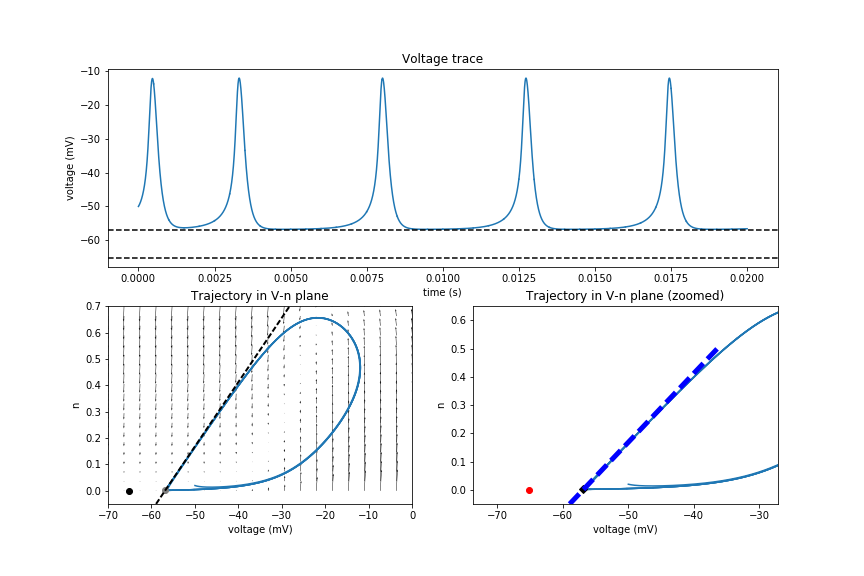
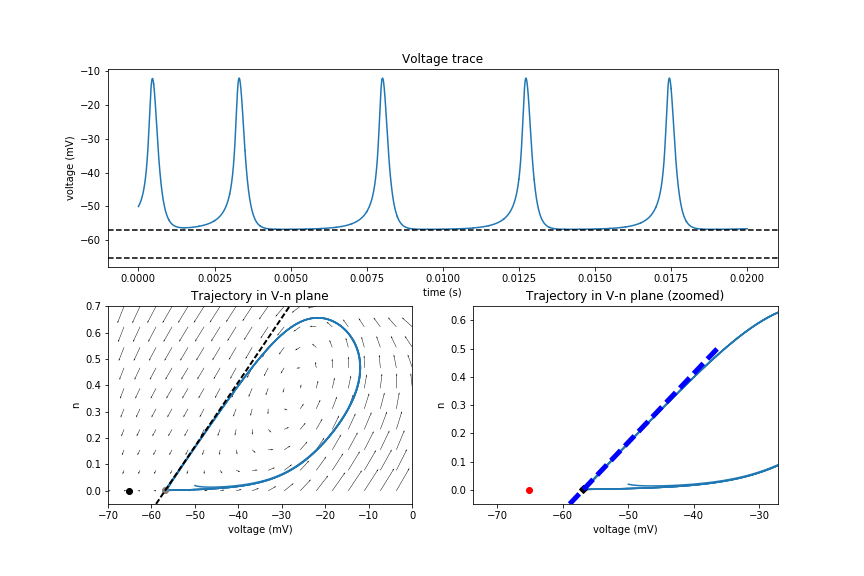
plotting phase-plane done

Changed region(s): [[0.125, 0.5312, 0.3438, 0.75], [0.3438, 0.6562, 0.4688, 0.8438], [0.4375, 0.5312, 0.4688, 0.6562]]

diff --git a/Neuron.py b/Neuron.py
@@ -258,18 +258,19 @@ def plot_histograms(results):
     
 def plot_field(tau_n, Iapp, plot = False):
     '''Plots phase plane for given parameters'''
-    v_grid ,n_grid = np.meshgrid(np.linspace(-70,0,20), np.linspace(-0,.7,20))
+    v_grid ,n_grid = np.meshgrid(np.linspace(-70,0,15), np.linspace(-0,.7,15))
     dv_grid = ((-g_Na*1./(1+exp((-20-v_grid)/15.))*(v_grid-E_Na/mV)-g_K*n_grid*(v_grid-E_K/mV)
-                -g_L*(v_grid-E_L/mV)+Iapp/mV/1000)/Cm)*ms/1000
-    dn_grid = (1./(1+exp((-25-v_grid)/5.))-n_grid)/tau_n*ms
+                -g_L*(v_grid-E_L/mV)+Iapp/mV/1000)/Cm)*ms/70
+    dn_grid = (1./(1+exp((-25-v_grid)/5.))-n_grid)/tau_n*ms/.75
     #Normalization to have all vectors of the same length (otherwise the small ones are too small)
-    norm = 5# np.sqrt(np.square(dv_grid)+np.square(dn_grid))
-#    dv_grid= np.divide(dv_grid+.1,norm)
-#    dn_grid= np.divide(dn_grid+.1,norm)
+    norm = np.sqrt(np.square(dv_grid)+np.square(dn_grid))
+#    print(dv_grid)
+    dv_grid += 2*dv_grid/norm
+    dn_grid += 2*dn_grid/norm
     
     if plot:
 #        plt.figure()
-        plt.quiver(v_grid,n_grid,dv_grid,dn_grid, width = .0015)
+        plt.quiver(v_grid,n_grid,dv_grid,dn_grid, width = .002)
 #        plt.close()
 #        plt.show()
     
@@ -319,7 +320,7 @@ tau = 1.0*ms
 
 #parameters to play with
 tau_n = .155*ms
-Iapp = 1.2* uA #/cm**2
+Iapp = 4* uA #/cm**2
 I_noise = 2.5*uA
 duration = 2.5*ms
 
